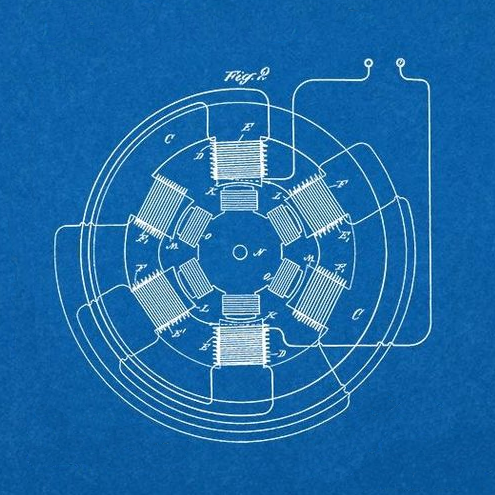
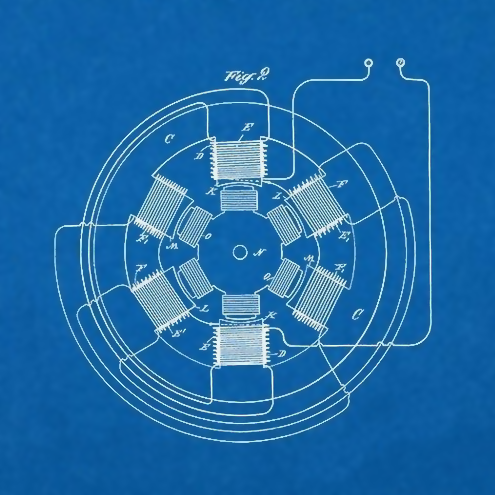
Compressed some large images

diff --git a/prototypes/index.html b/prototypes/index.html
@@ -207,7 +207,7 @@
 				<div class='column'>
 					<div class='content'>
 						<a href='https://www.samsonclose.me/prototypes/space-game/'>
-							<img src='./images/space-game.png' width='100%'>
+							<img src='./images/space-game.jpg' width='100%'>
 						</a>
 						<h3>Space Game <a href='https://github.com/qwertysam/space-game'><img class='github' src='./images/github.svg'></a></h3>
 						<p>RIP A space game made with Phaser 2.</p>

diff --git a/index.html b/index.html
@@ -191,7 +191,7 @@
 				<div class='column'>
 					<div class='content'>
 						<a href='https://www.samsonclose.me/prototypes/'>
-							<img src='/images/prototype.png' width='100%'>
+							<img src='/images/prototype.jpg' width='100%'>
 						</a>
 						<h3>Prototypes</h3>
 						<p>Unpolished or unfinished projects.</p>
